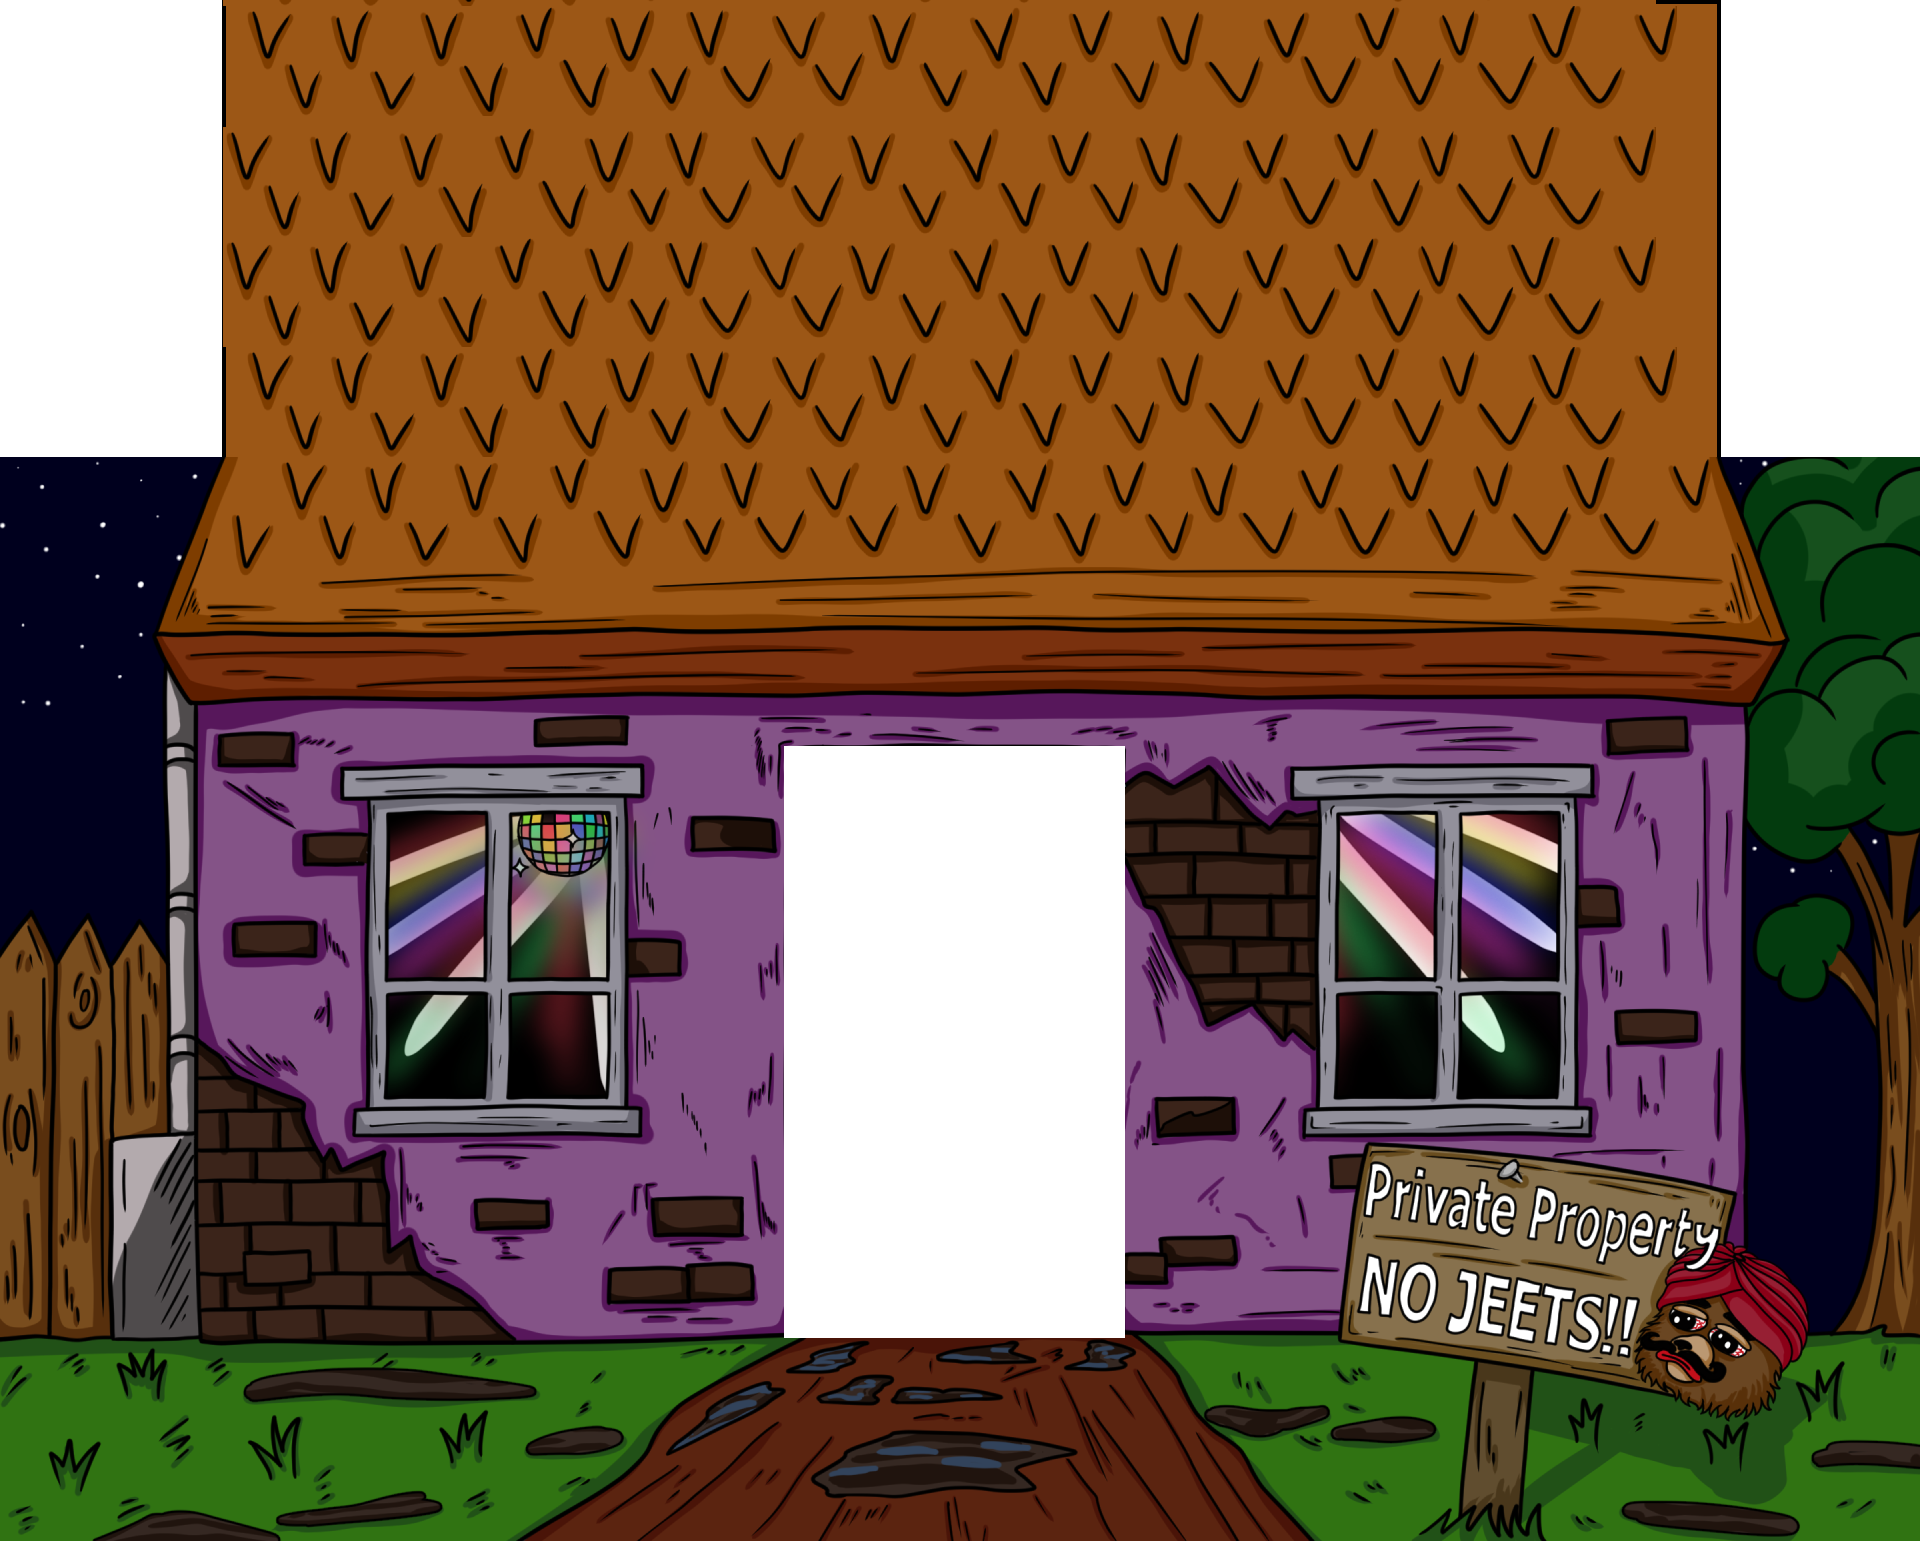
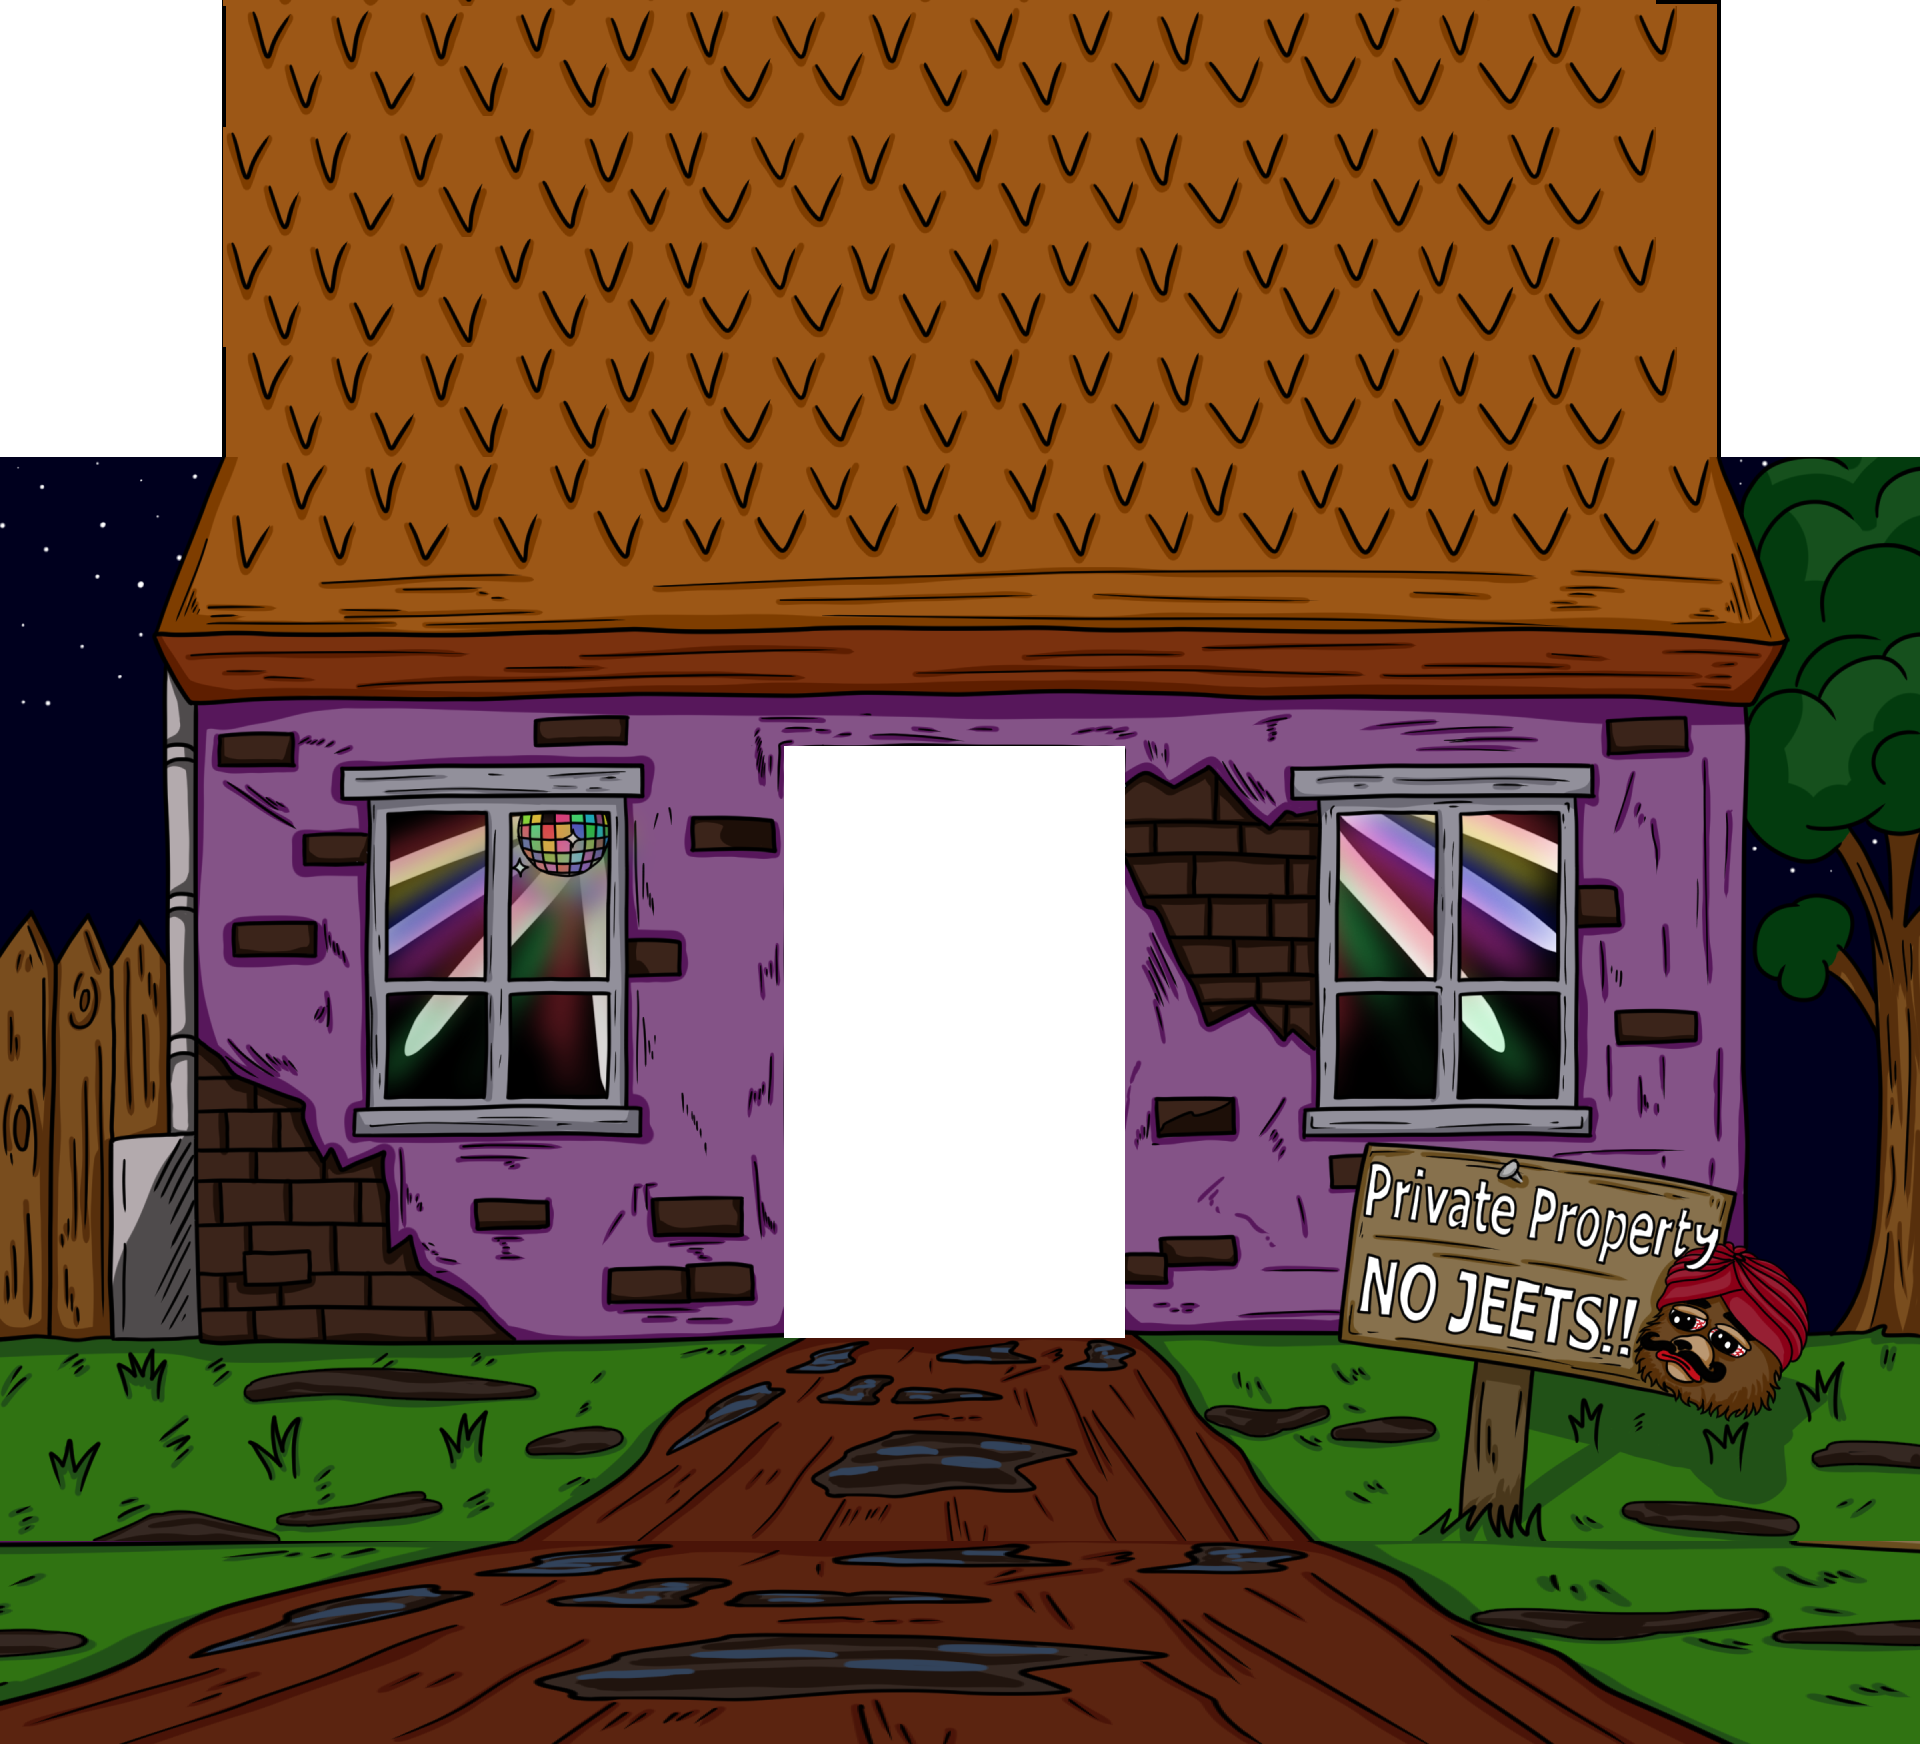
c

diff --git a/src/components/lilparts/door.js b/src/components/lilparts/door.js
@@ -1,49 +1,50 @@
-import React, { useState, useEffect } from 'react';
-import doorfront from '../../assets/doorfront.png';
-import doorback from '../../assets/doorback.png';
+import React, { useState, useEffect } from "react";
+import doorfront from "../../assets/doorfront.png";
+import doorback from "../../assets/doorback.png";
 
 function Door() {
-    const [scrollY, setScrollY] = useState(0);
+  const [scrollY, setScrollY] = useState(0);
 
-    useEffect(() => {
-        const handleScroll = () => {
-            setScrollY(window.scrollY);
-        };
+  useEffect(() => {
+    const handleScroll = () => {
+      setScrollY(window.scrollY);
+    };
 
-        window.addEventListener('scroll', handleScroll);
-        return () => {
-            window.removeEventListener('scroll', handleScroll);
-        };
-    }, []);
+    window.addEventListener("scroll", handleScroll);
+    return () => {
+      window.removeEventListener("scroll", handleScroll);
+    };
+  }, []);
 
-    const frontRotation = Math.min(scrollY / 5, 90); // Front door rotates up to 90 degrees
-    const backRotation = scrollY > 450 ? Math.max(90 - (scrollY - 450) / 5, 0) : 90; // Back door starts from 90 degrees and rotates to 0 degrees
+  const frontRotation = Math.min(scrollY / 5, 90); // Front door rotates up to 90 degrees
+  const backRotation =
+    scrollY > 450 ? Math.max(90 - (scrollY - 450) / 5, 0) : 90; // Back door starts from 90 degrees and rotates to 0 degrees
 
-    return (
-        <div className="absolute lg:h-[390px] lg:w-[268px] h-[400px] w-[230px] mx-auto lg:mt-[58px] mt-[290px] lg:mr-[6px] mr-[6px]">
-            <div
-                className="absolute h-full w-full z-20"
-                style={{
-                    transformOrigin: 'left center',
-                    transform: `rotateY(${frontRotation}deg)`,
-                    backfaceVisibility: 'hidden',
-                }}
-            >
-                <img src={doorfront} alt="Front Door" className=" z-20 h-full w-full" />
-            </div>
-            <div
-                className="absolute h-full w-full z-20"
-                style={{
-                    transformOrigin: 'right center',
-                    transform: `rotateY(${backRotation}deg)`, // Inverted rotation
-                    backfaceVisibility: 'hidden',
-                    left: '-100%',
-                }}
-            >
-                <img src={doorback} alt="Back Door" className="z-20 h-full w-full" />
-            </div>
-        </div>
-    );
+  return (
+    <div className="absolute lg:h-[390px] lg:w-[268px] h-[400px] w-[230px] mx-auto lg:mt-[58px] mt-[-10px] lg:mr-[6px] mr-[6px]">
+      <div
+        className="absolute h-full w-full z-20"
+        style={{
+          transformOrigin: "left center",
+          transform: `rotateY(${frontRotation}deg)`,
+          backfaceVisibility: "hidden",
+        }}
+      >
+        <img src={doorfront} alt="Front Door" className=" z-20 h-full w-full" />
+      </div>
+      <div
+        className="absolute h-full w-full z-20"
+        style={{
+          transformOrigin: "right center",
+          transform: `rotateY(${backRotation}deg)`, // Inverted rotation
+          backfaceVisibility: "hidden",
+          left: "-100%",
+        }}
+      >
+        <img src={doorback} alt="Back Door" className="z-20 h-full w-full" />
+      </div>
+    </div>
+  );
 }
 
 export default Door;

diff --git a/src/components/Hero.js b/src/components/Hero.js
@@ -20,7 +20,7 @@ function Hero() {
         <img
           src={MHousebg}
           alt=""
-          className="z-10 max-w-none w-[1300px]   lg:max-w-auto lg:w-screen lg:h-screen  block lg:hidden -mt-20"
+          className="z-10 max-w-none w-[1300px]   lg:max-w-auto lg:w-screen lg:h-screen  block lg:hidden -mt-60"
         />
         <div className="bg-black w-full h-full absolute top-0 left-0 z-0"></div>
       </div>
